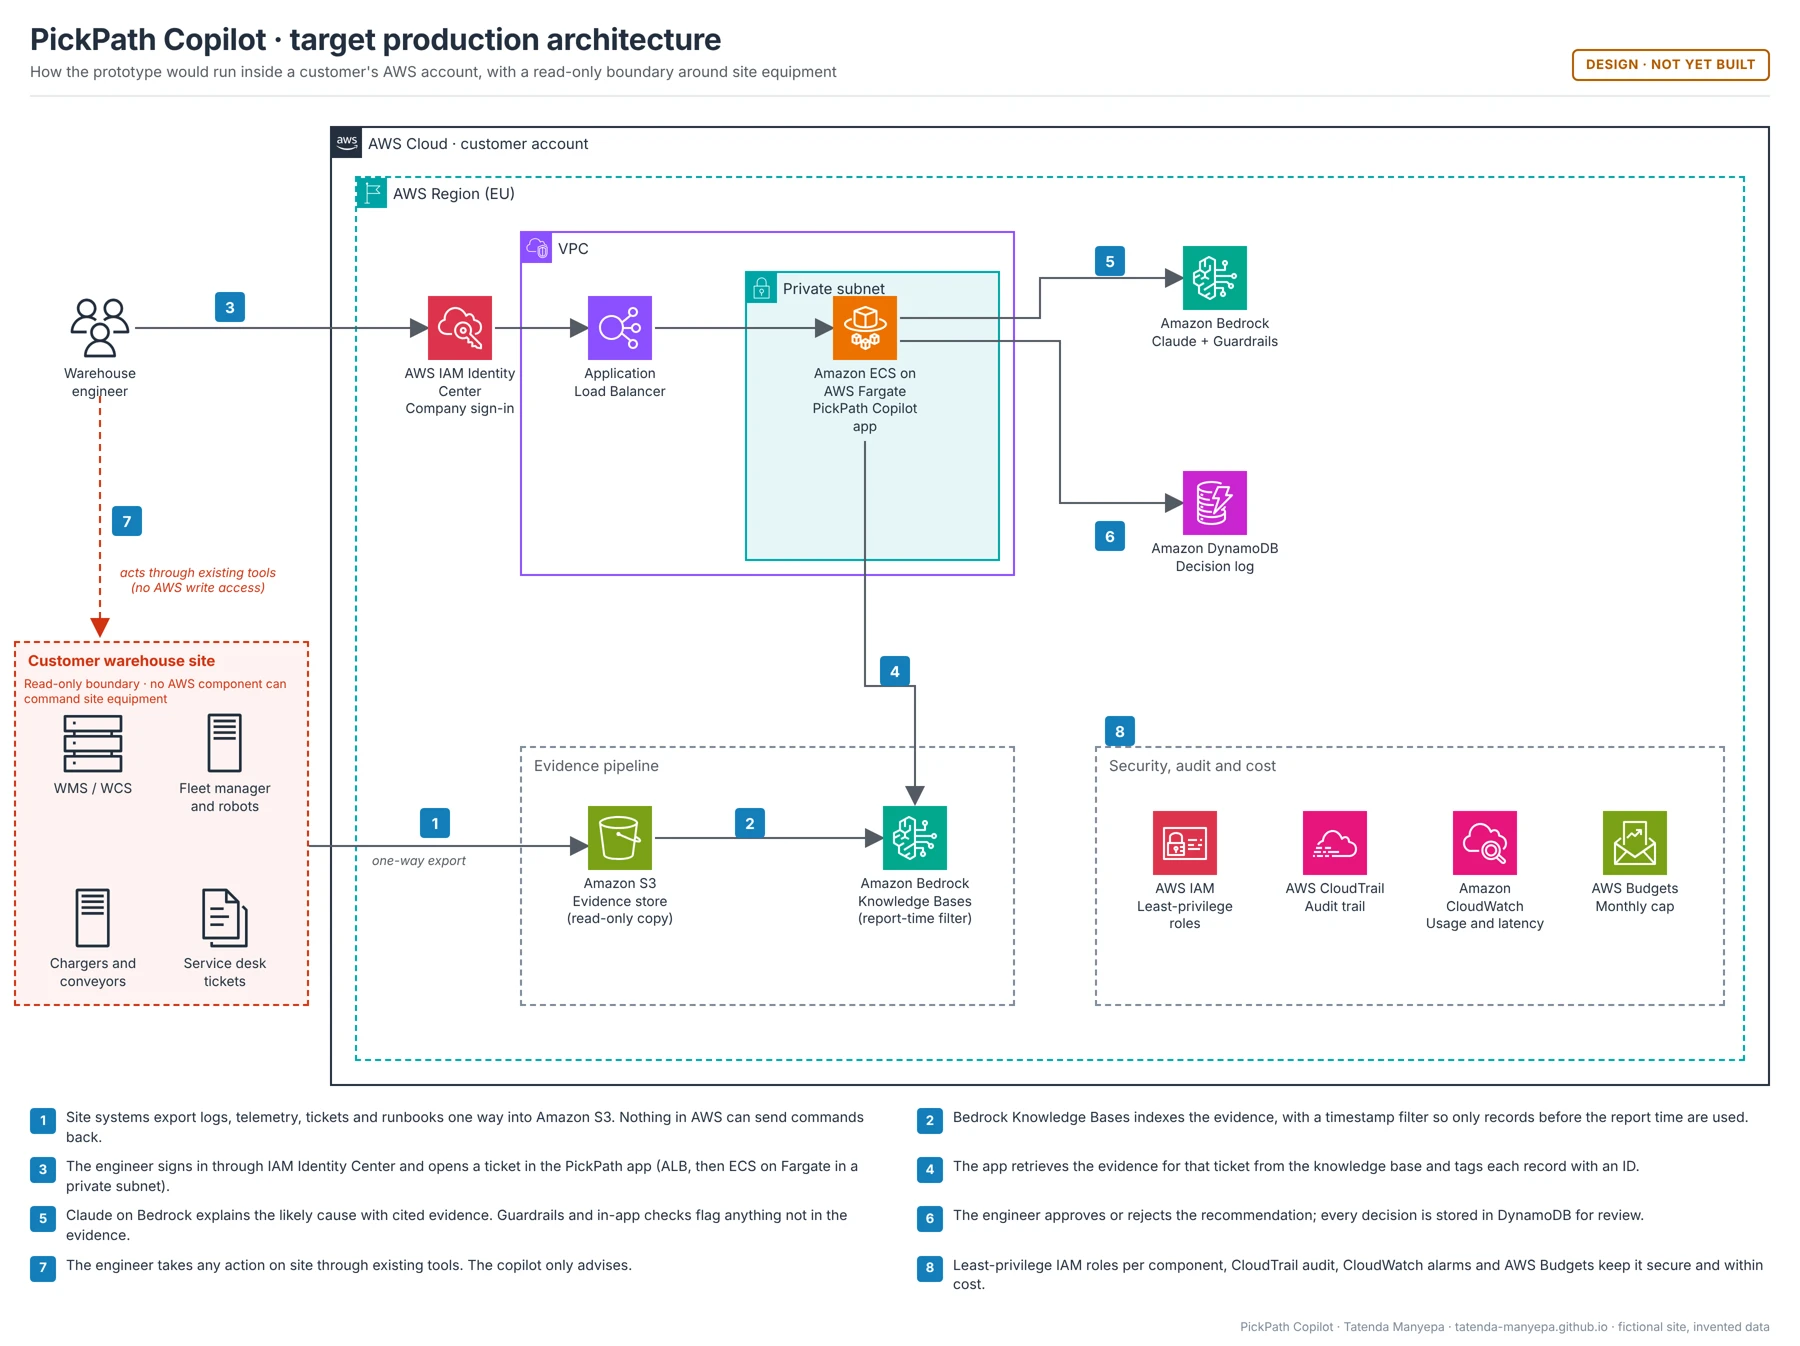
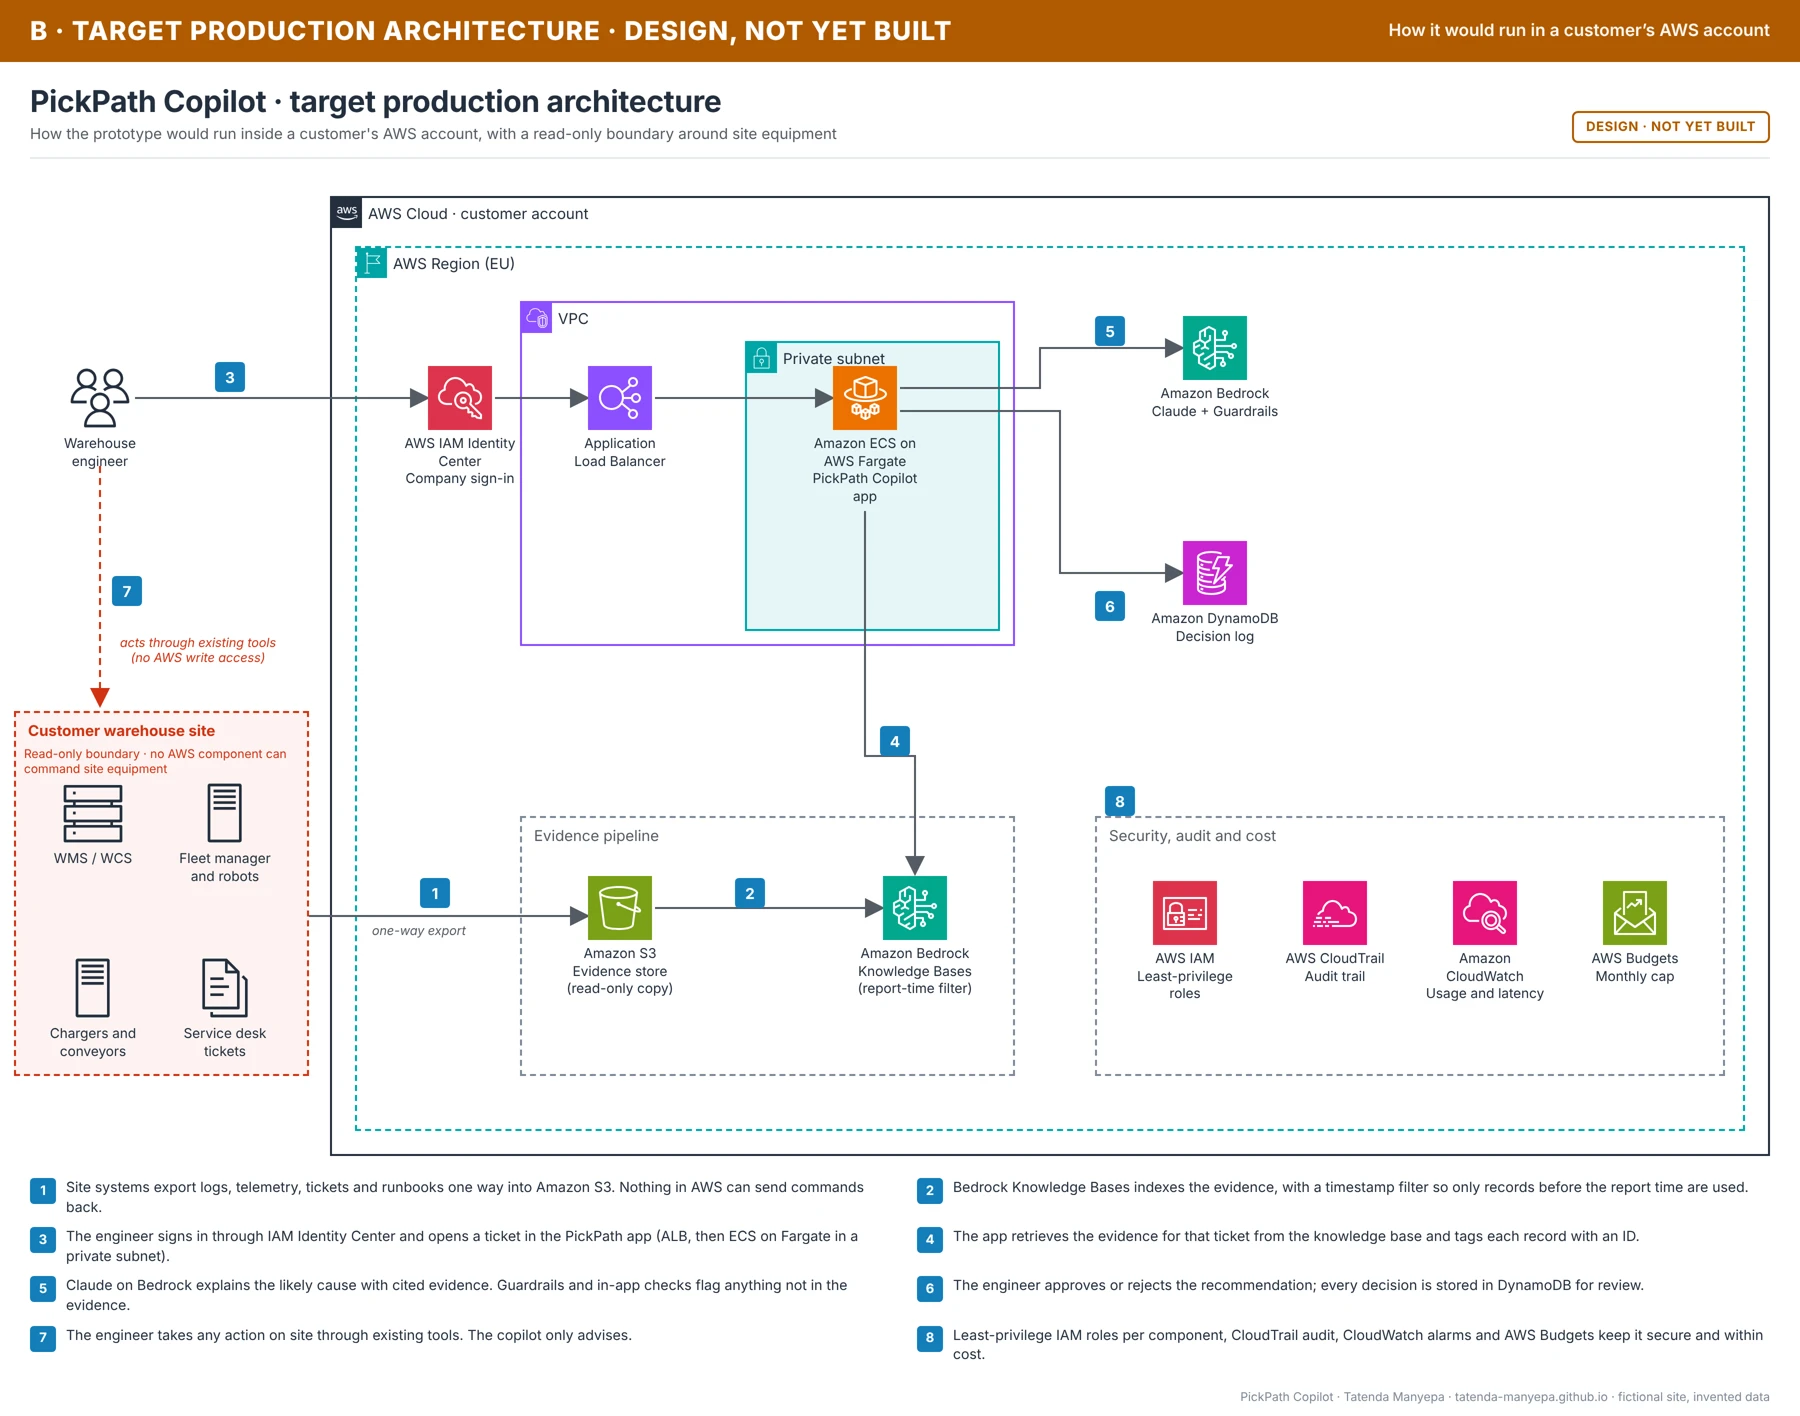
Add files via upload

diff --git a/pickpath.html b/pickpath.html
@@ -85,7 +85,13 @@
 
 <section aria-labelledby="cloud"><p class="kicker">06 / CLOUD DESIGN</p><h2 id="cloud">Prototype now, production-ready design</h2>
 <p>The prototype keeps costs and moving parts low. The production design shows how it would run safely inside a customer’s AWS account.</p>
-<figure class="shot"><a href="assets/pickpath-prototype-architecture.webp" target="_blank" rel="noopener" title="Open full size"><img src="assets/pickpath-prototype-architecture.webp" width="1800" height="1330" alt="Prototype architecture: a Streamlit app gathers time-filtered evidence, replays saved answers for example tickets or calls Claude on Amazon Bedrock for new incidents, checks citations, and logs the engineer’s decision" loading="lazy"></a><figcaption><strong>Built and live:</strong> the prototype architecture. Click to enlarge.</figcaption></figure><figure class="shot"><a href="assets/pickpath-production-architecture.webp" target="_blank" rel="noopener" title="Open full size"><img src="assets/pickpath-production-architecture.webp" width="1800" height="1346" alt="Target production architecture in a customer AWS account: one-way export from site systems to S3, Bedrock Knowledge Bases, Bedrock with Guardrails, an app on ECS Fargate behind IAM Identity Center, DynamoDB decision log, and IAM, CloudTrail, CloudWatch and Budgets" loading="lazy"></a><figcaption><strong>Design, not yet built:</strong> the target production architecture on AWS. Click to enlarge.</figcaption></figure><div class="arch" aria-label="Production architecture. Select a component to see what it does.">
+<div class="arch-pair">
+<div class="arch-label built"><span class="arch-pill">A · Built and live</span><h3>Prototype architecture</h3><p>What runs today: a Streamlit app calling Claude on Amazon Bedrock, with evidence checks and an engineer in the loop. <a href="https://pickpath-copilot.streamlit.app" target="_blank" rel="noopener">Try it ↗</a></p></div>
+<figure class="shot arch-fig built"><a href="assets/pickpath-prototype-architecture.webp" target="_blank" rel="noopener" title="Open full size"><img src="assets/pickpath-prototype-architecture.webp" width="1800" height="1400" alt="Prototype architecture, built and live: a Streamlit app gathers time-filtered evidence, replays saved answers for example tickets or calls Claude on Amazon Bedrock for new incidents, checks citations, and logs the engineer’s decision" loading="lazy"></a><figcaption>Click to enlarge</figcaption></figure>
+<div class="arch-bridge"><span>From prototype to production ↓</span></div>
+<div class="arch-label design"><span class="arch-pill">B · Design, not yet built</span><h3>Target production architecture on AWS</h3><p>How I would take it into a customer’s AWS account: managed evidence search, guardrails, company sign-in, audit and cost controls, behind a read-only boundary.</p></div>
+<figure class="shot arch-fig design"><a href="assets/pickpath-production-architecture.webp" target="_blank" rel="noopener" title="Open full size"><img src="assets/pickpath-production-architecture.webp" width="1800" height="1416" alt="Target production architecture, design not yet built: one-way export from site systems to S3, Bedrock Knowledge Bases, Bedrock with Guardrails, an app on ECS Fargate behind IAM Identity Center, DynamoDB decision log, and IAM, CloudTrail, CloudWatch and Budgets" loading="lazy"></a><figcaption>Click to enlarge</figcaption></figure>
+</div><div class="arch" aria-label="Production architecture. Select a component to see what it does.">
 <div class="zone"><span>Site equipment</span><b>Read-only boundary</b></div>
 <button class="node" type="button" aria-pressed="false" data-info="Robots, chargers, conveyors and the warehouse control system keep running exactly as before. Nothing in the copilot can send them a command."><small>Source</small><strong>Robots and warehouse systems</strong></button>
 <button class="node" type="button" aria-pressed="false" data-info="Logs and telemetry are copied one way into Amazon S3. The copy is read-only, so the copilot can look at evidence but never change it."><small>Amazon S3</small><strong>Evidence store</strong></button>

diff --git a/styles.css b/styles.css
@@ -290,3 +290,14 @@ footer{border-top:1px solid var(--line);background:var(--bg-2);color:var(--muted
 .shot-pair .shot{margin:0}
 .checklist a{color:var(--amber)}
 @media(max-width:680px){.shot-pair{grid-template-columns:1fr}}
+/* Architecture pair labelling */
+.arch-pair{margin:1.4rem 0}
+.arch-label{margin:1.2rem 0 .5rem;padding:.9rem 1rem;border-radius:10px;border:1px solid var(--line);border-left:5px solid var(--lc);background:var(--panel)}
+.arch-label h3{margin:.45rem 0 .25rem;font-size:1.25rem}
+.arch-label p{margin:0;color:var(--muted);font-size:.95rem}
+.arch-label a{color:var(--lc);font-weight:650}
+.arch-pill{display:inline-block;padding:.2rem .65rem;border-radius:6px;font:600 .74rem var(--mono);letter-spacing:.06em;text-transform:uppercase;color:#0B1220;background:var(--lc)}
+.arch-label.built,.arch-fig.built{--lc:#4FD1A5}.arch-label.design,.arch-fig.design{--lc:#FFB547}
+.arch-fig{margin-top:0}.arch-fig img{border:2px solid var(--lc)}
+.arch-bridge{text-align:center;margin:1.4rem 0 .4rem}
+.arch-bridge span{display:inline-block;padding:.35rem .9rem;border:1px dashed var(--line-2);border-radius:99px;color:var(--muted);font:500 .8rem var(--mono)}
